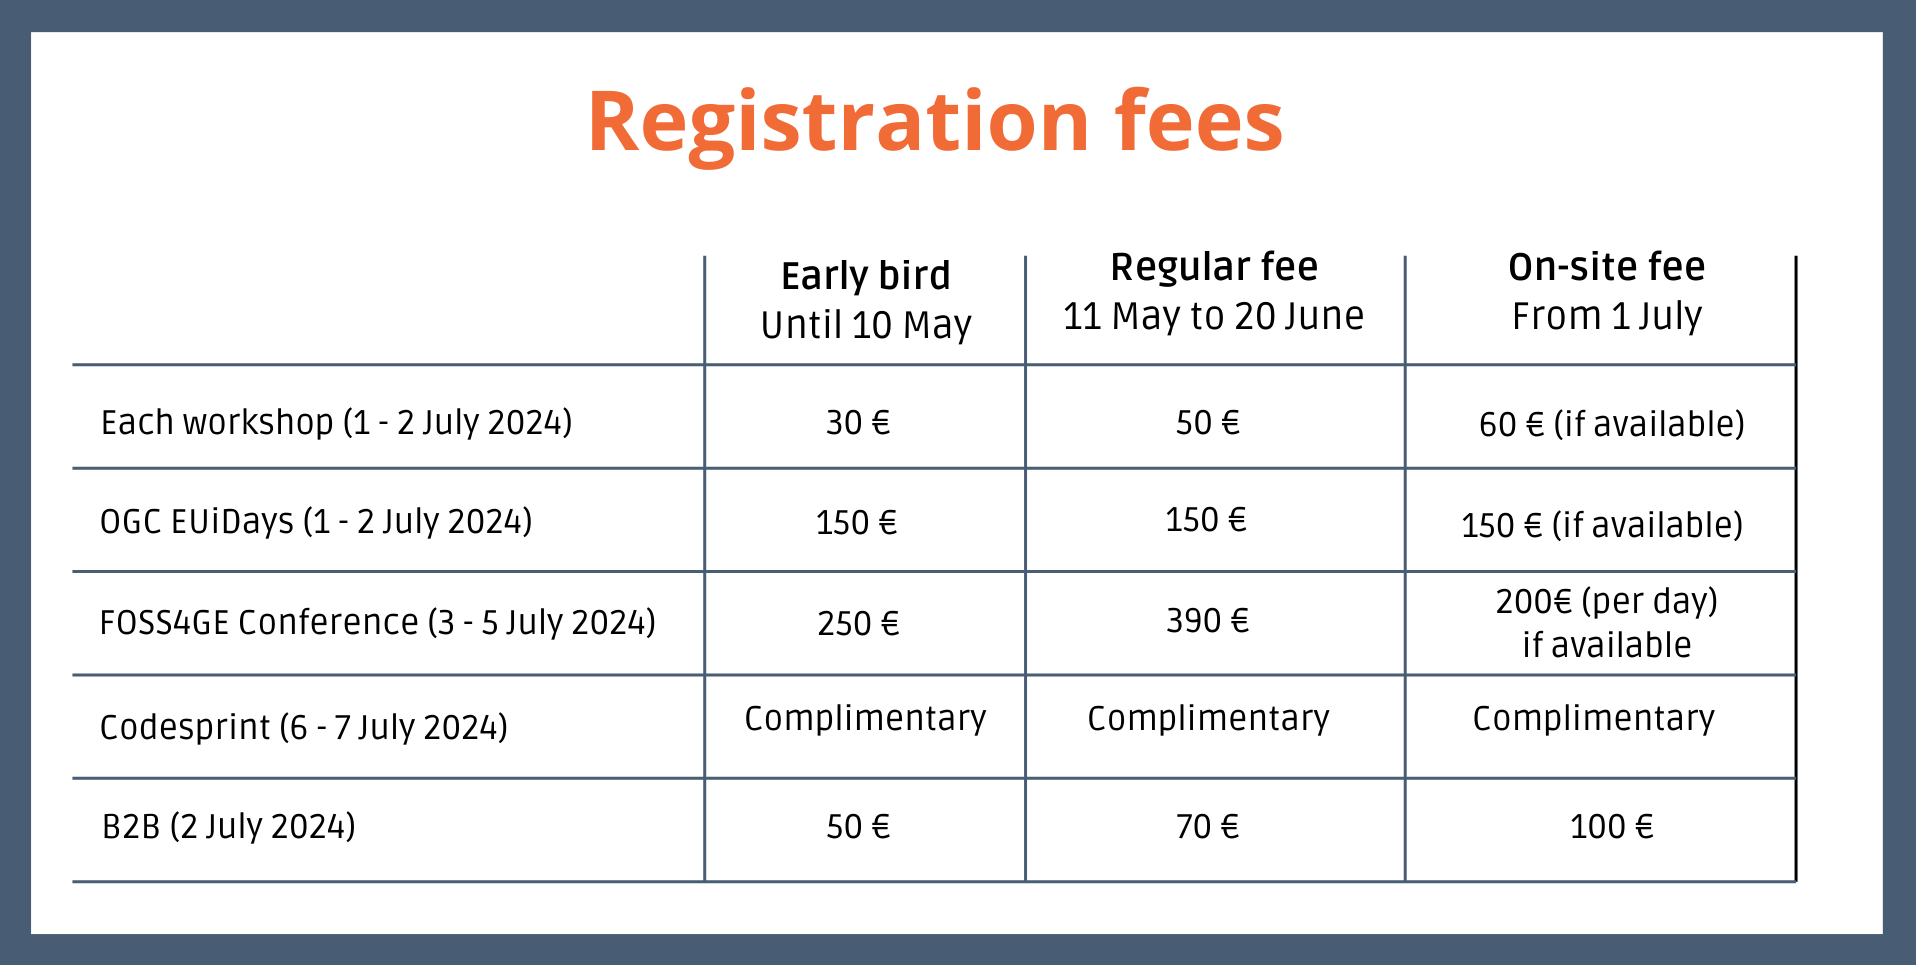
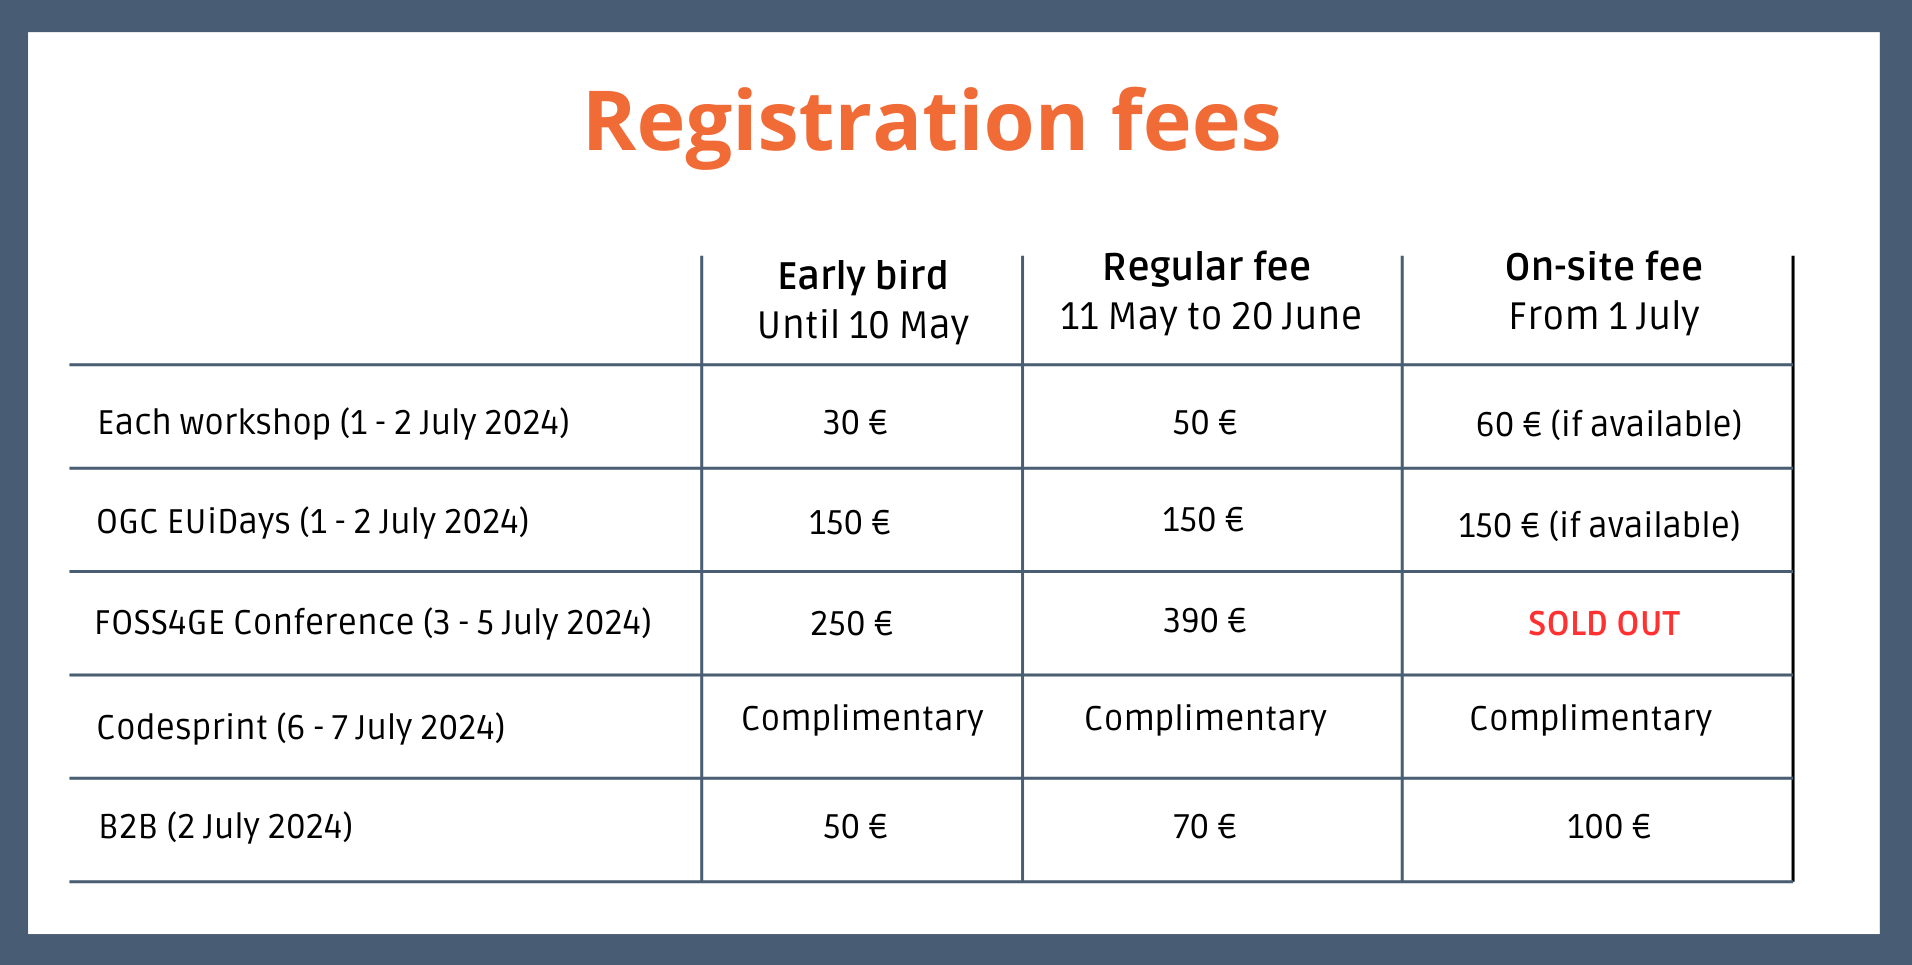
registration prices

diff --git a/content/registration/_index.md b/content/registration/_index.md
@@ -10,7 +10,7 @@ layout : "single"
 
 ### The ticket shop is closed (as of 21 June)
 
-**All tickets are sold out and it is not possible to purchase them on-site!**
+**All conference tickets are sold out and it is not possible to purchase them on-site!**
 
 This has been a fantastic rollercoaster ride with a way higher community
 interest than we were ever expecting based on previous FOSS4GE conferences.
@@ -31,7 +31,7 @@ If you're a lucky ticket holder, then see you in Tartu very soon!
 </center-->
 <hr>
 
-<!--{{< figure
+{{< figure
     src="../images/pricing.png"
     alttext="pricing"
     link=""
@@ -39,7 +39,6 @@ If you're a lucky ticket holder, then see you in Tartu very soon!
     target="blank"
     rel="noopener noreferrer"
     >}}
--->
 
 Registration fee includes:
 
